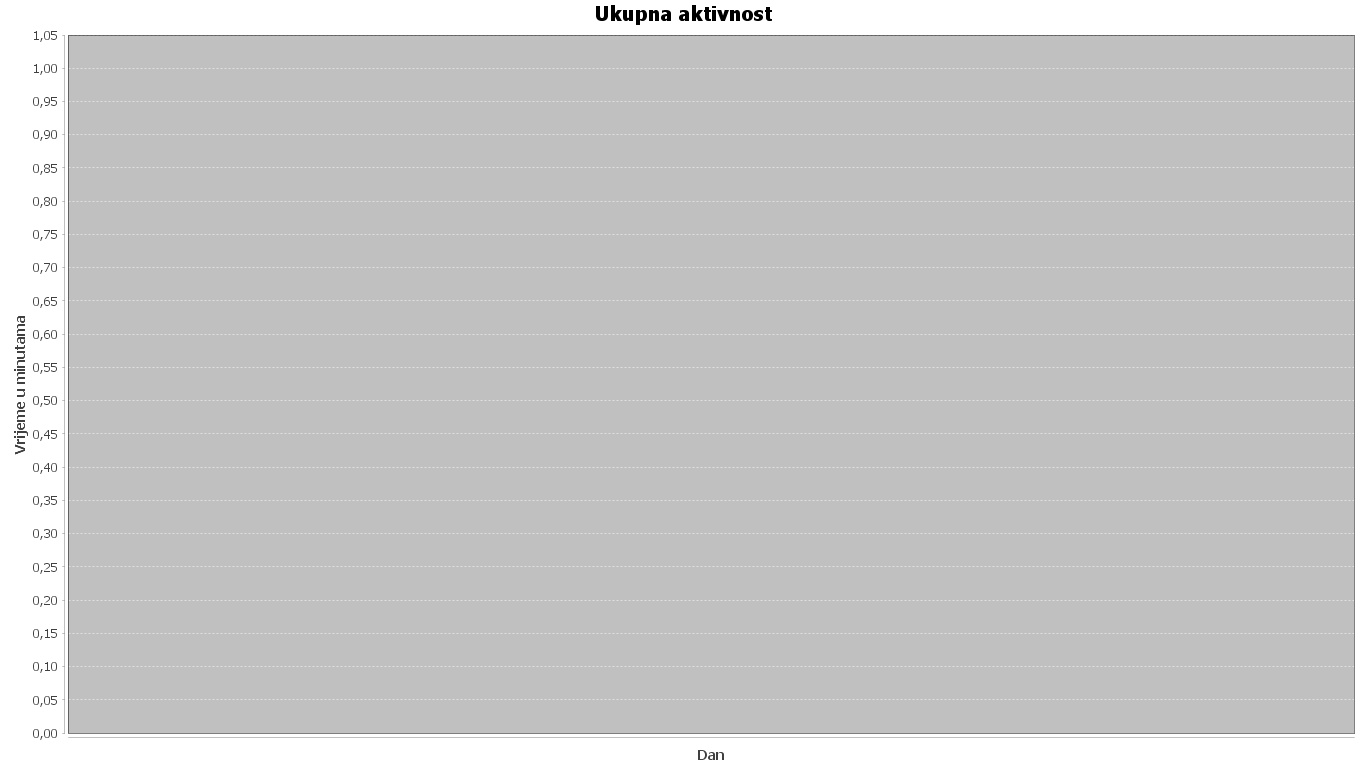
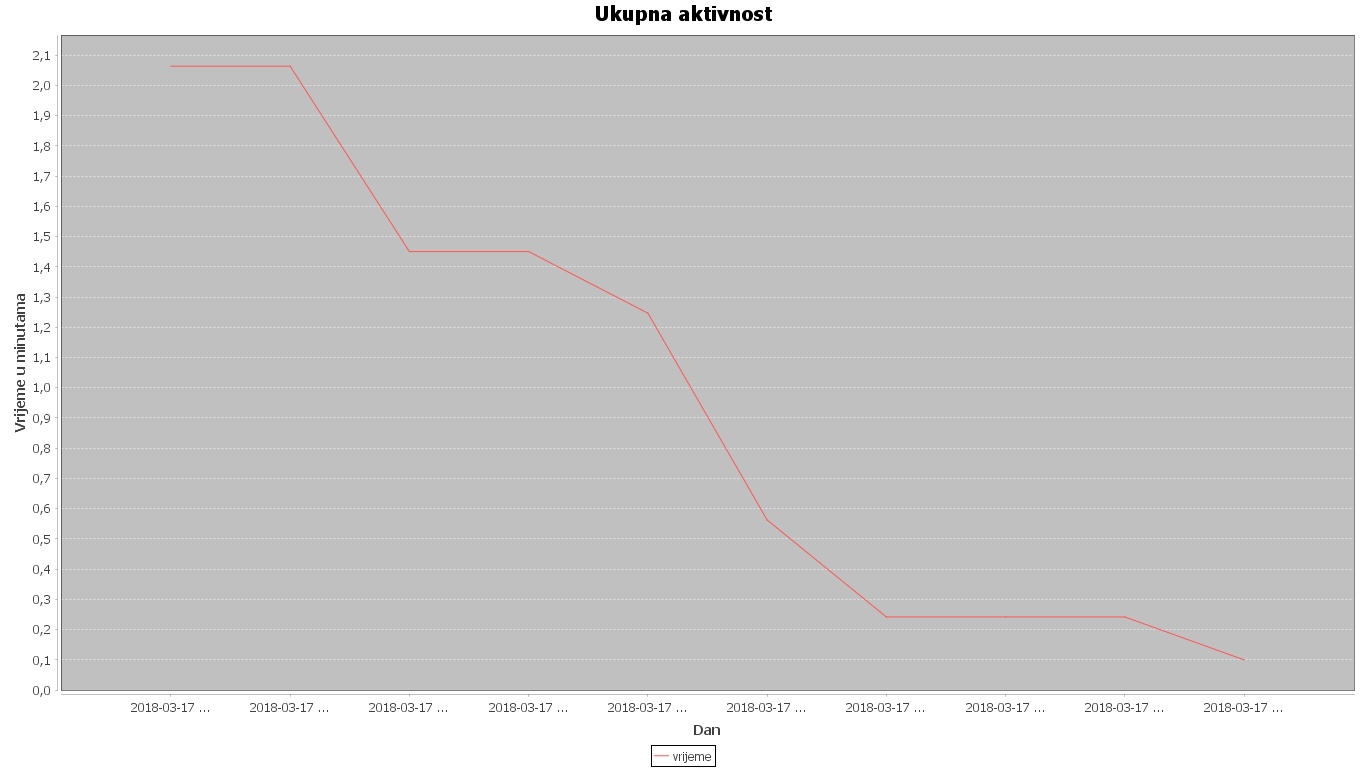
popravljeno ponašanje grafikona

diff --git a/PhysicalActivityMVC/src/main/java/com/josip/physical/activity/summary/Histogram.java b/PhysicalActivityMVC/src/main/java/com/josip/physical/activity/summary/Histogram.java
@@ -33,7 +33,7 @@ public class Histogram {
 	//donji dio histograma
 	final String dan="Dan";
 	
-	public File generirajHistogram() throws IOException {
+	public void generirajHistogram() throws IOException {
 		List<SummaryActivity> act=new ArrayList<SummaryActivity>();
 		Authentication au=SecurityContextHolder.getContext().getAuthentication();
 		String name=au.getName();
@@ -56,10 +56,10 @@ public class Histogram {
 		int height=768;
 		File histogram=new File("C:/xampp/htdocs/SustavZaPracenjeFizickeAktivnosti/PhysicalActivityMVC/src/main/webapp/resources/Histogram.jpeg");
 		ChartUtilities.saveChartAsJPEG(histogram, barChart, width, height);
-		return histogram;
+		
 	}
 	
-	public File generirajHistogram(String datum1,String datum2) throws IOException {
+	public void generirajHistogram(String datum1,String datum2) throws IOException {
 		List<SummaryActivity> act=new ArrayList<SummaryActivity>();
 		Authentication au=SecurityContextHolder.getContext().getAuthentication();
 		String name=au.getName();
@@ -67,12 +67,12 @@ public class Histogram {
 		final DefaultCategoryDataset dataset = new DefaultCategoryDataset();
 		for (SummaryActivity summaryActivity : act) {
 			String datum12=summaryActivity.getDatum().trim();
-    		String datum23=datum1.substring(8,11);
+    		
     		double sekunde=summaryActivity.getUkupnoVrijeme()/1000;
     		double minute=sekunde/60;
-			dataset.addValue(minute,ukupanBrojKoraka,datum23);
-			dataset.addValue(minute, prijedjeniKilometri, datum23);
-			dataset.addValue(minute, prosjecnaBrzina, datum23);
+			dataset.addValue(minute,ukupanBrojKoraka,datum12);
+			dataset.addValue(minute, prijedjeniKilometri, datum12);
+			dataset.addValue(minute, prosjecnaBrzina, datum12);
 			
 		}
 		JFreeChart barChart= ChartFactory.createBarChart("Ukupna statistika korisnika tijekom vremena trajanja aktivnosti",
@@ -82,7 +82,7 @@ public class Histogram {
 		int height=768;
 		File histogram=new File("C:/xampp/htdocs/SustavZaPracenjeFizickeAktivnosti/PhysicalActivityMVC/src/main/webapp/resources/Histogram.jpeg");
 		ChartUtilities.saveChartAsJPEG(histogram, barChart, width, height);
-		return histogram;
+		
 	}
 
 

diff --git a/PhysicalActivityMVC/src/main/java/com/josip/physical/activity/summary/LineChart.java b/PhysicalActivityMVC/src/main/java/com/josip/physical/activity/summary/LineChart.java
@@ -26,7 +26,7 @@ public class LineChart {
 		
 		
 	}
-    public File generate() throws IOException {
+    public void generate() throws IOException {
     	//stvori listu
     	List<SummaryActivity> dataset= new ArrayList<SummaryActivity>();
     	//upit za korisnika
@@ -70,10 +70,10 @@ public class LineChart {
     	height = 768; /* Height of the image */
     	lineChart = new File( "C:/xampp/htdocs/SustavZaPracenjeFizickeAktivnosti/PhysicalActivityMVC/src/main/webapp/resources/LineChart2.jpeg" );
     	ChartUtilities.saveChartAsJPEG(lineChart ,lnch, width, height);
-    		return lineChart;
+    		
     
 }
-    public File generirajFiltriranp(String datum1,String datum2) throws IOException {
+    public void generirajFiltriranp(String datum1,String datum2) throws IOException {
     	//stvori listu
     	List<SummaryActivity> dataset= new ArrayList<SummaryActivity>();
     	//upit za korisnika
@@ -90,14 +90,14 @@ public class LineChart {
     	//crtaj graf
     	int broj=0;
     	for (SummaryActivity summaryActivity : dataset) {
-    	
+    
     		String datum12=summaryActivity.getDatum().trim();
-    		String datum23=datum1.substring(8,11);
+    		
     		double sekunde=summaryActivity.getUkupnoVrijeme()/1000;
     		double minute=sekunde/60;
     		
-    		line_chart_dataset.addValue( minute , "vrijeme" , datum23);
-    		lnd.addValue(summaryActivity.getPrijedjeniKilometri(), "Broj prijedjenih kilometara", datum23);
+    		line_chart_dataset.addValue( minute , "vrijeme" , datum12);
+    		lnd.addValue(summaryActivity.getPrijedjeniKilometri(), "Broj prijedjenih kilometara", datum12);
     	
 		}
        
@@ -117,7 +117,7 @@ public class LineChart {
     	height = 768; /* Height of the image */
     	lineChart = new File( "C:/xampp/htdocs/SustavZaPracenjeFizickeAktivnosti/PhysicalActivityMVC/src/main/webapp/resources/LineChart2.jpeg" );
     	ChartUtilities.saveChartAsJPEG(lineChart ,lnch, width, height);
-    		return lineChart;
+    		
     
 }    
 }

diff --git a/PhysicalActivityMVC/src/main/java/com/josip/physical/activity/summary/SummaryController.java b/PhysicalActivityMVC/src/main/java/com/josip/physical/activity/summary/SummaryController.java
@@ -40,8 +40,9 @@ public String sum(Model model) throws IOException {
 	model.addAttribute("ukupnoBicikliranja",summaryRepository.izlistaj(name));
 	model.addAttribute("ukupnoTrcanje",summaryRepository.lista(name));
 	model.addAttribute("ukupnoHodanja",summaryRepository.izlistajHod(name));
-    model.addAttribute(lineChart.generate());
-    model.addAttribute(histogram.generirajHistogram());
+	lineChart.generate();
+	histogram.generirajHistogram();
+   
 	
 	return "sum";
 }
@@ -50,8 +51,9 @@ public String filter(@RequestParam("datum1")String Datum1,@RequestParam("datum2"
 	Authentication au=SecurityContextHolder.getContext().getAuthentication();
 	   String name=au.getName();
 	model.addAttribute("sum",summaryRepository.filtriraj(name, Datum1, Datum2));
-    model.addAttribute(lineChart.generirajFiltriranp(Datum1, Datum2));
-    model.addAttribute(histogram.generirajHistogram(Datum1,Datum2));
+	lineChart.generirajFiltriranp(Datum1, Datum2);
+    
+    histogram.generirajHistogram(Datum1,Datum2);
 	
 	return "sum";
 }
